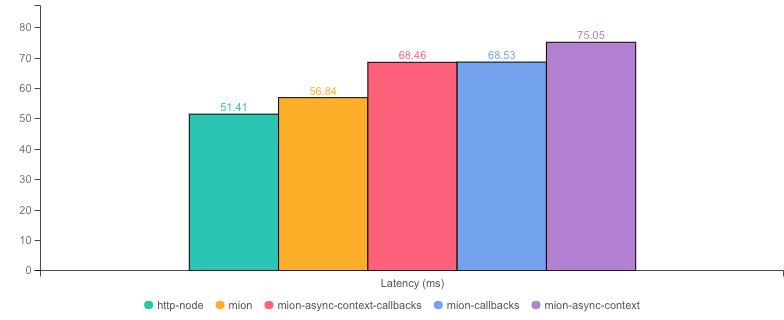
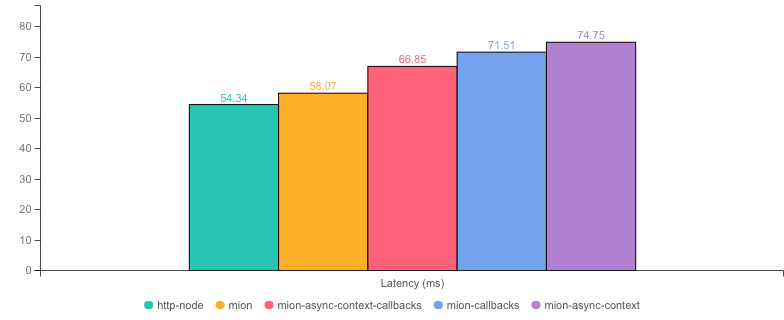
run test after latest version

diff --git a/benchmarks/http-node.js b/benchmarks/http-node.js
@@ -48,31 +48,36 @@ const reply = (httpResponse, json, statusCode) => {
 const server = require("http").createServer(function (req, res) {
   res.setHeader("content-type", "application/json; charset=utf-8");
 
-  if (req.url === "/") {
-    res.end(JSON.stringify({ "/": { hello: "world" } }));
-  } else if (req.url === "/updateUser") {
-    const body = JSON.parse(
-      '{"/updateUser":{"id":123,"name":"john","surname":"smith","lastUpdate":"2020-12-17T02:24:00.000Z"}}'
-    ); // lazy to read request data properly in bare http
-    const rawUser = body["/updateUser"];
-    if (!isUser(rawUser)) {
-      const errorBody = JSON.stringify({ error: "invalid input, not an user" });
-      reply(res, errorBody, 400);
+  const data = [];
+  req.on("data", function (chunk) {
+    data.push(chunk);
+  });
+
+  req.on("end", function () {
+    const rawBody = Buffer.concat(data).toString();
+    if (req.url === "/") {
+      res.end(JSON.stringify({ "/": { hello: "world" } }));
+    } else if (req.url === "/updateUser") {
+      const body = JSON.parse(rawBody);
+      const rawUser = body["/updateUser"];
+      if (!isUser(rawUser)) {
+        const errorBody = JSON.stringify({
+          error: "invalid input, not an user",
+        });
+        reply(res, errorBody, 400);
+        return;
+      }
+      const user = deserializeUser(rawUser); // we would need to deserialize to be able to use date etc
+      user.lastUpdate.setMonth(user.lastUpdate.getMonth() + 1);
+      const resBody = JSON.stringify({
+        "/updateUser": user,
+      });
+      reply(res, resBody, 200);
+    } else {
+      const errorBody = JSON.stringify({ error: "route not found" });
+      reply(res, errorBody, 404);
     }
-    const user = deserializeUser(rawUser); // we would need to deserialize to be able to use date etc
-    const resBody = JSON.stringify({
-      "/updateUser": {
-        ...user,
-        name: "lorem",
-        surname: "ipsum",
-        lastUpdate: new Date(),
-      },
-    });
-    reply(res, resBody, 200);
-  } else {
-    const errorBody = JSON.stringify({ error: "route not found" });
-    reply(res, errorBody, 404);
-  }
+  });
 });
 
 server.listen(3000);

diff --git a/benchmarks/restify.js b/benchmarks/restify.js
@@ -45,16 +45,18 @@ server.use(restify.plugins.bodyParser({}));
 
 server.post("/updateUser", function (req, res) {
   const rawUser = req.body?.["/updateUser"];
-  if (!isUser(rawUser)) throw "app error, invalid parameter, not a user";
+  if (!isUser(rawUser)) {
+    res.statusCode = 400;
+    res.send({
+      error: "invalid parameter, not a user",
+    });
+    return;
+  }
   const user = deserializeUser(rawUser); // we would need to deserialize to be able to use date etc
+  user.lastUpdate.setMonth(user.lastUpdate.getMonth() + 1);
   res.contentType = "json";
   res.send({
-    "/updateUser": {
-      ...user,
-      name: "lorem",
-      surname: "ipsum",
-      lastUpdate: new Date(),
-    },
+    "/updateUser": user,
   });
 });
 

diff --git a/_compiled-apps/apps/src/mionApp.d.ts b/_compiled-apps/apps/src/mionApp.d.ts
@@ -1,10 +1,13 @@
 import { type RouterOptions, type Routes, type Route } from "@mionkit/router";
+import { User } from "./models";
 export declare const shared: {};
 export type Shared = typeof SharedArrayBuffer;
 export declare const mionSayHelloRoute: Route;
 export declare const updateUser: Route;
-export declare const updateUserNoAppOrContext: Route;
-export declare const logAsyncCallContext: Route;
+export declare const updateUserNoAppOrContext: (user: User) => Promise<User>;
+export declare const logAsyncCallContext: (name: string) => {
+    hello: string;
+};
 export declare const routes: Routes;
 export declare const routesWithAsyncCallContext: Routes;
 export declare const initHttp: (options?: Partial<RouterOptions>) => void;

diff --git a/_compiled-apps/apps/src/mionApp.js b/_compiled-apps/apps/src/mionApp.js
@@ -27,7 +27,8 @@ exports.updateUser = __assignType((context, user) => {
     return Object.assign(Object.assign({}, user), { lastUpdate: new Date() });
 }, ['context', () => __ΩUser, 'user', () => __ΩUser, '', 'P"2!n"2#n$/%']);
 exports.updateUserNoAppOrContext = __assignType((user) => __awaiter(void 0, void 0, void 0, function* () {
-    return Object.assign(Object.assign({}, user), { lastUpdate: new Date() });
+    user.lastUpdate.setMonth(user.lastUpdate.getMonth() + 1);
+    return user;
 }), [() => __ΩUser, 'user', () => __ΩUser, '', 'Pn!2"n#`/$']);
 exports.logAsyncCallContext = __assignType((name) => {
     const callContext = (0, router_1.getCallContext)();

diff --git a/benchmarks/fastify.js b/benchmarks/fastify.js
@@ -76,13 +76,9 @@ fastify.post("/", rootRequestOpts, function (req, reply) {
 fastify.post("/updateUser", updateUserOpts, async function (req, reply) {
   const rawUser = req.body["/updateUser"]; //date is not deserialized, it is with fastify and
   const user = deserializeUser(rawUser); // we need to convert date input manually
+  user.lastUpdate.setMonth(user.lastUpdate.getMonth() + 1);
   reply.send({
-    "/updateUser": {
-      ...user,
-      name: "lorem",
-      surname: "ipsum",
-      lastUpdate: new Date().toJSON(), // manually have to deserialize
-    },
+    "/updateUser": user,
   });
 });
 

diff --git a/benchmarks/hapi.js b/benchmarks/hapi.js
@@ -74,13 +74,9 @@ async function start() {
       const rawUser = request.payload?.["/updateUser"];
       if (!isUser(rawUser)) throw "app error, invalid parameter, not a user";
       const user = deserializeUser(rawUser); // we would need to deserialize to be able to use date etc
+      user.lastUpdate.setMonth(user.lastUpdate.getMonth() + 1);
       return {
-        "/updateUser": {
-          ...user,
-          name: "lorem",
-          surname: "ipsum",
-          lastUpdate: new Date(),
-        },
+        "/updateUser": user,
       };
     },
   });

diff --git a/_compiled-apps/apps/src/deepkitApp.js b/_compiled-apps/apps/src/deepkitApp.js
@@ -34,8 +34,9 @@ const setRoutes = () => {
     router.any("/", exports.deepKitSayHelloRoute);
     router.post("/updateUser", __assignType((body) => {
         const user = body["/updateUser"];
+        user.lastUpdate.setMonth(user.lastUpdate.getMonth() + 1);
         return {
-            "/updateUser": Object.assign(Object.assign({}, user), { lastUpdate: new Date() }),
+            "/updateUser": user,
         };
     }, [() => __ΩHttpBody, () => __ΩmionUpdate, 'body', () => __ΩmionUpdate, '', 'Pn"o!"2#n$/%']));
 };

diff --git a/benchmarks/express.js b/benchmarks/express.js
@@ -61,13 +61,9 @@ app.post("/updateUser", function (req, res) {
   const rawUser = req.body?.["/updateUser"];
   if (!isUser(rawUser)) throw "app error, invalid parameter, not a user";
   const user = deserializeUser(rawUser);
+  user.lastUpdate.setMonth(user.lastUpdate.getMonth() + 1);
   res.json({
-    "/updateUser": {
-      ...user,
-      name: "lorem",
-      surname: "ipsum",
-      lastUpdate: new Date(),
-    },
+    "/updateUser": user,
   });
 });
 

diff --git a/README.md b/README.md
@@ -81,8 +81,8 @@ app.post("/updateUser", function (req, res) {
 
 * __Machine:__ darwin x64 | 8 vCPUs | 16.0GB Mem
 * __Node:__ `v16.18.0`
-* __Run:__ Mon Jul 17 2023 21:52:47 GMT+0100 (Irish Standard Time)
-* __Method:__ `autocannon -c 100 -d 40.04 -p 10 localhost:3000` (two rounds; one to warm-up, one to measure)
+* __Run:__ Mon Jul 17 2023 22:59:01 GMT+0100 (Irish Standard Time)
+* __Method:__ `autocannon -c 100 -d 40.06 -p 10 localhost:3000` (two rounds; one to warm-up, one to measure)
 
 #### Req (R/s) 
 
@@ -112,10 +112,10 @@ app.post("/updateUser", function (req, res) {
 
 |           | Version        | Router | Req (R/s)   | Latency (ms) | Output (Mb/s) | Max Memory (Mb) | Max Cpu (%) | Validation | Description                                                                                                |
 | :--       | --:            | --:    | :-:         | --:          | --:           | --:             | --:         | :-:        | :--                                                                                                        |
-| http-node | 16.18.0        | ✗      | 19767.7     | 50.09        | 5.07          | 78              | 121         | ✗          | Super basic and completely useless bare http server, should be the theoretical upper limit in performance. |
-| **mion**  | **0.1.0**      | **✓**  | **17151.3** | **57.85**    | **4.76**      | **230**         | **146**     | **✓**      | **validation and serialization out of the box**                                                            |
-| fastify   | 4.19.2         | ✓      | 16179.3     | 61.29        | 4.17          | 90              | 120         | -          | Validation is done using schemas and ajv. Schemas must be generated manually or using third party tools.   |
-| restify   | 8.6.1          | ✓      | 12535.2     | 79.22        | 3.24          | 106             | 112         | ✗          | Requires third party tools.                                                                                |
-| hapi      | 20.3.0         | ✓      | 8076.1      | 123.25       | 2.07          | 93              | 127         | ✗          | Manual validation using joi, or third party tools.                                                         |
-| deepkit   | 1.0.1-alpha.75 | ✓      | 5492.4      | 181.22       | 1.40          | 309             | 145         | ✓          | Automatic validation out of the box (The ones that made @deepkit/types), Their rpc is way more performant. |
-| express   | 4.18.2         | ✓      | 4574.4      | 217.48       | 1.17          | 111             | 121         | ✗          | needs third party tools, or third party tools                                                              |
+| http-node | 16.18.0        | ✗      | 17858.5     | 55.47        | 4.56          | 82              | 120         | ✗          | Super basic and completely useless bare http server, should be the theoretical upper limit in performance. |
+| **mion**  | **0.1.0**      | **✓**  | **17249.7** | **57.47**    | **4.79**      | **225**         | **146**     | **✓**      | **validation and serialization out of the box**                                                            |
+| fastify   | 4.19.2         | ✓      | 16198.6     | 61.22        | 4.16          | 90              | 120         | -          | Validation is done using schemas and ajv. Schemas must be generated manually or using third party tools.   |
+| restify   | 8.6.1          | ✓      | 12033.8     | 82.56        | 3.10          | 104             | 118         | ✗          | Requires third party tools.                                                                                |
+| hapi      | 20.3.0         | ✓      | 7936.3      | 125.38       | 2.03          | 97              | 130         | ✗          | Manual validation using joi, or third party tools.                                                         |
+| deepkit   | 1.0.1-alpha.75 | ✓      | 5426.2      | 183.45       | 1.39          | 301             | 142         | ✓          | Automatic validation out of the box (The ones that made @deepkit/types), Their rpc is way more performant. |
+| express   | 4.18.2         | ✓      | 4615.0      | 215.68       | 1.18          | 112             | 125         | ✗          | needs third party tools, or third party tools                                                              |

diff --git a/MION-OPTIONS.md b/MION-OPTIONS.md
@@ -28,7 +28,7 @@ We show the benchmarks and let you take your own conclusions!!
 
 * __Machine:__ darwin x64 | 8 vCPUs | 16.0GB Mem
 * __Node:__ `v16.18.0`
-* __Run:__ Mon Jul 17 2023 21:45:41 GMT+0100 (Irish Standard Time)
+* __Run:__ Mon Jul 17 2023 22:51:55 GMT+0100 (Irish Standard Time)
 * __Method:__ `autocannon -c 100 -d 40.02 -p 10 localhost:3000` (two rounds; one to warm-up, one to measure)
 
 #### Req (R/s) 
@@ -69,8 +69,8 @@ We show the benchmarks and let you take your own conclusions!!
 
 |                              | Version   | Router | Req (R/s)   | Latency (ms) | Output (Mb/s) | Max Memory (Mb) | Max Cpu (%) | Validation | Description                                                                                     |
 | :--                          | --:       | --:    | :-:         | --:          | --:           | --:             | --:         | :-:        | :--                                                                                             |
-| http-node                    | 16.18.0   | ✗      | 19257.9     | 51.41        | 4.94          | 81              | 124         | ✗          | theoretical upper limit in performance.                                                         |
-| **mion**                     | **0.1.0** | **✓**  | **17443.6** | **56.84**    | **4.84**      | **226**         | **147**     | **✓**      | **using mion http with promises `HttpOptions.useCallbacks = false`**                            |
-| mion-async-context-callbacks | 0.1.0     | ✓      | 14496.0     | 68.46        | 4.60          | 105             | 141         | ✓          | using mion http with callbacks and sync call context `RouterOptions.useAsyncCallContext = true` |
-| mion-callbacks               | 0.1.0     | ✓      | 14475.4     | 68.53        | 4.60          | 103             | 138         | ✓          | using mion http with callbacks `HttpOptions.useCallbacks = true`                                |
-| mion-async-context           | 0.1.0     | ✓      | 13229.8     | 75.05        | 4.20          | 218             | 134         | ✓          | using mion http with promises and sync call context `RouterOptions.useAsyncCallContext = true`  |
+| http-node                    | 16.18.0   | ✗      | 18225.9     | 54.34        | 4.66          | 79              | 123         | ✗          | theoretical upper limit in performance.                                                         |
+| **mion**                     | **0.1.0** | **✓**  | **17068.1** | **58.07**    | **4.74**      | **224**         | **136**     | **✓**      | **using mion http with promises `HttpOptions.useCallbacks = false`**                            |
+| mion-async-context-callbacks | 0.1.0     | ✓      | 14840.4     | 66.85        | 4.71          | 101             | 121         | ✓          | using mion http with callbacks and sync call context `RouterOptions.useAsyncCallContext = true` |
+| mion-callbacks               | 0.1.0     | ✓      | 13875.2     | 71.51        | 4.41          | 214             | 139         | ✓          | using mion http with callbacks `HttpOptions.useCallbacks = true`                                |
+| mion-async-context           | 0.1.0     | ✓      | 13281.6     | 74.75        | 4.22          | 204             | 139         | ✓          | using mion http with promises and sync call context `RouterOptions.useAsyncCallContext = true`  |

diff --git a/METRICS.md b/METRICS.md
@@ -9,7 +9,7 @@ Cold start times are measure using the http server but are also indicative of ho
 ## Metrics
 * __Machine:__ darwin x64 | 8 vCPUs | 16.0GB Mem
 * __Node:__ `v16.18.0`
-* __Run:__ Mon Jul 17 2023 21:56:07 GMT+0100 (Irish Standard Time)
+* __Run:__ Mon Jul 17 2023 23:02:18 GMT+0100 (Irish Standard Time)
 * __Method:__ `npm run metrics` (samples: 5)
 * __startup:__ time elapsed to setup the application
 * __listen:__ time elapsed until the http server is ready to accept requests (cold start)
@@ -22,28 +22,28 @@ Cold start times are measure using the http server but are also indicative of ho
 
   | | startup(ms) | listen(ms) |
   |-| -           | -          |
-| 10-startup-deepkit-routes.js | 1438 | 1439 |
+| 10-startup-deepkit-routes.js | 1440 | 1442 |
 | 10-startup-fastify-routes.js | 149 | 221 |
-| 10-startup-mion-routes.js | 547 | 554 |
-| 100-startup-deepkit-routes.js | 1446 | 1447 |
+| 10-startup-mion-routes.js | 545 | 551 |
+| 100-startup-deepkit-routes.js | 1443 | 1445 |
 | 100-startup-fastify-routes.js | 166 | 334 |
-| 100-startup-mion-routes.js | 543 | 551 |
-| 500-startup-deepkit-routes.js | 1457 | 1459 |
-| 500-startup-fastify-routes.js | 251 | 798 |
-| 500-startup-mion-routes.js | 541 | 551 |
-| 1000-startup-deepkit-routes.js | 1469 | 1470 |
-| 1000-startup-fastify-routes.js | 354 | 1333 |
-| 1000-startup-mion-routes.js | 545 | 558 |
-| 2000-startup-deepkit-routes.js | 1461 | 1463 |
-| 2000-startup-fastify-routes.js | 568 | 2425 |
-| 2000-startup-mion-routes.js | 544 | 570 |
-| 3000-startup-deepkit-routes.js | 1487 | 1488 |
-| 3000-startup-fastify-routes.js | 825 | 3617 |
-| 3000-startup-mion-routes.js | 548 | 583 |
+| 100-startup-mion-routes.js | 541 | 549 |
+| 500-startup-deepkit-routes.js | 1451 | 1453 |
+| 500-startup-fastify-routes.js | 251 | 795 |
+| 500-startup-mion-routes.js | 540 | 550 |
+| 1000-startup-deepkit-routes.js | 1462 | 1463 |
+| 1000-startup-fastify-routes.js | 354 | 1335 |
+| 1000-startup-mion-routes.js | 543 | 556 |
+| 2000-startup-deepkit-routes.js | 1453 | 1455 |
+| 2000-startup-fastify-routes.js | 567 | 2420 |
+| 2000-startup-mion-routes.js | 542 | 568 |
+| 3000-startup-deepkit-routes.js | 1475 | 1476 |
+| 3000-startup-fastify-routes.js | 827 | 3623 |
+| 3000-startup-mion-routes.js | 546 | 580 |
 | 4000-startup-deepkit-routes.js | 1484 | 1486 |
-| 4000-startup-fastify-routes.js | 1239 | 4878 |
-| 4000-startup-mion-routes.js | 545 | 584 |
-| 5000-startup-deepkit-routes.js | 1490 | 1492 |
-| 5000-startup-fastify-routes.js | 1772 | 6292 |
-| 5000-startup-mion-routes.js | 554 | 599 |
-| startup-listen.js | 620 | 623 |
+| 4000-startup-fastify-routes.js | 1236 | 4873 |
+| 4000-startup-mion-routes.js | 543 | 582 |
+| 5000-startup-deepkit-routes.js | 1484 | 1486 |
+| 5000-startup-fastify-routes.js | 1767 | 6285 |
+| 5000-startup-mion-routes.js | 550 | 595 |
+| startup-listen.js | 604 | 607 |
